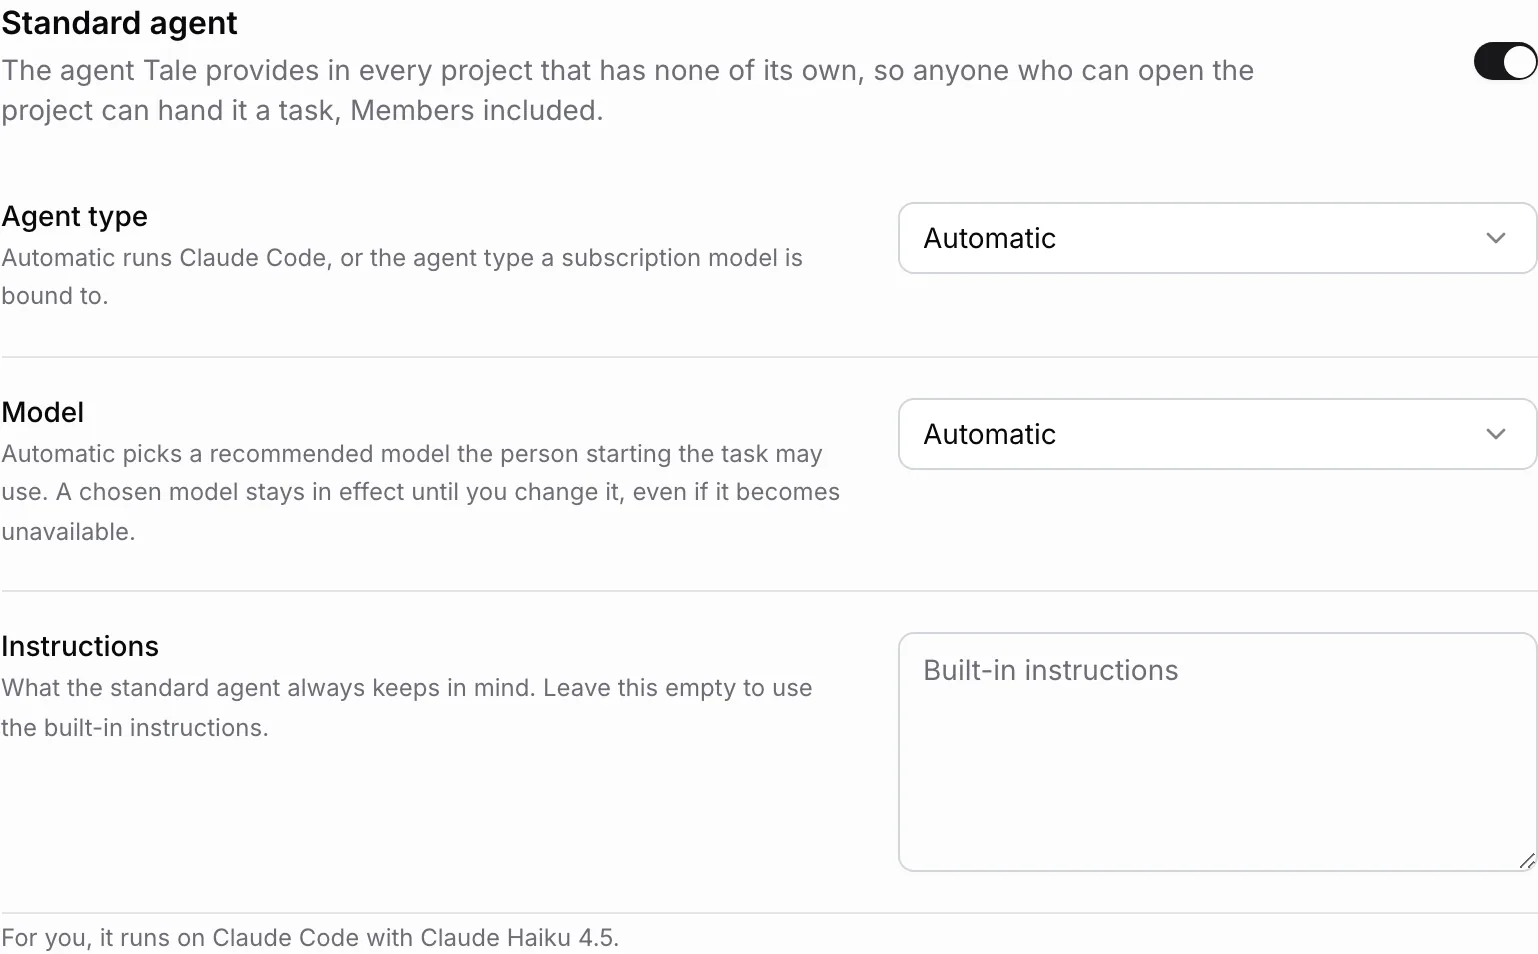
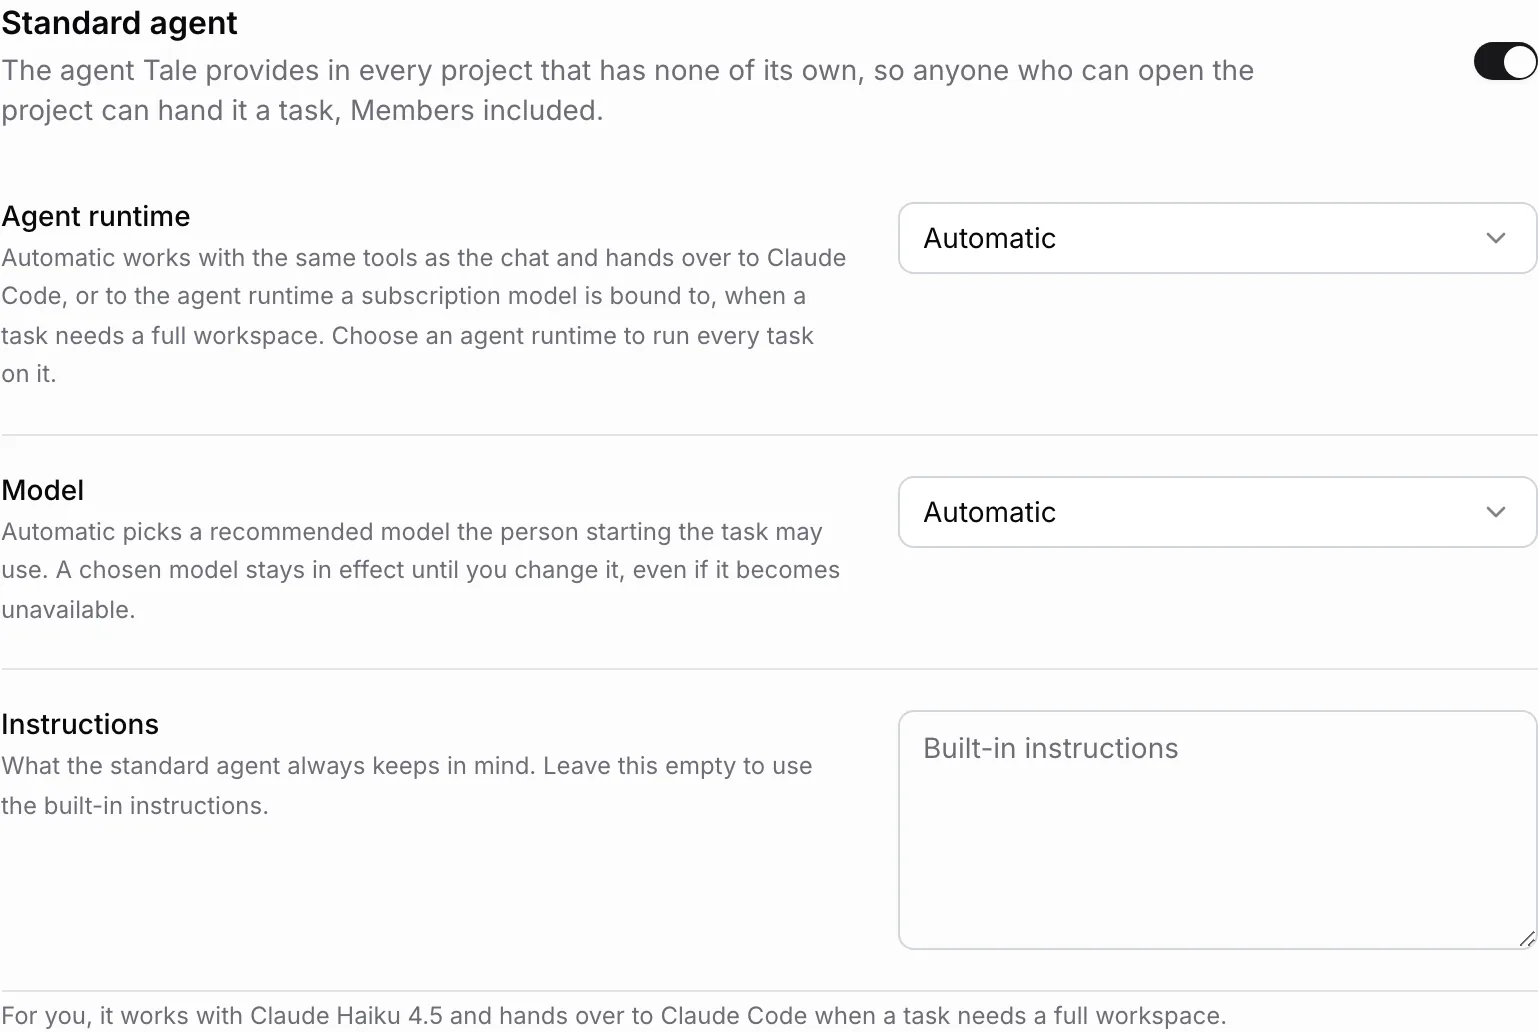
docs: recapture the standard agent settings screenshot
The line under the Standard agent section now says the agent works with the
chat's tools and hands over to a runtime when a task needs a full workspace,
so the shot shows it and the capture waits for either wording. Alt text in
English, German and French follows.

diff --git a/services/platform/tests/docs-screenshots/manifest.ts b/services/platform/tests/docs-screenshots/manifest.ts
@@ -3049,14 +3049,20 @@ export const SHOTS: readonly Shot[] = [
     // Governance > Models — the organization's standard agent as a new
     // organization has it: on, its agent type and model automatic. The line
     // naming what it runs on for the viewer lands last, once the policy and
-    // the viewer's model choice have both answered.
+    // the viewer's model choice have both answered. It reads one of two
+    // ways: the agent works with the chat's own tools and hands over to a
+    // runtime, or the runtime runs it throughout.
     name: 'governance-standard-agent',
     section: 'platform',
     route: '/dashboard/:orgId/settings/governance/content-models',
     readyWhen: (page) =>
-      standardAgentSection(page).getByText(
-        labelPrefix('governance.standardAgent.current'),
-      ),
+      standardAgentSection(page)
+        .getByText(labelPrefix('governance.standardAgent.currentNative'))
+        .or(
+          standardAgentSection(page).getByText(
+            labelPrefix('governance.standardAgent.current'),
+          ),
+        ),
     sanitize: replaceRigNames,
     capture: (page) => standardAgentSection(page),
   },

diff --git a/docs/fr/platform/admin/governance/content-models.md b/docs/fr/platform/admin/governance/content-models.md
@@ -84,7 +84,7 @@ Seuls les éditeurs et les rôles supérieurs peuvent ajouter des agents à un p
 
 <Frame caption="Gouvernance > Modèles — l’agent standard, activé, avec son environnement d’agent et son modèle choisis automatiquement.">
 
-![La section de l’agent standard : l’interrupteur est activé, l’environnement d’agent et le modèle sont réglés sur automatique, et le champ des instructions est vide et renvoie aux instructions intégrées. La dernière ligne indique qu’il fonctionne pour toi avec Claude Code et Claude Haiku 4.5.](/images/platform/governance-standard-agent.webp)
+![La section de l’agent standard : l’interrupteur est activé, l’environnement d’agent et le modèle sont réglés sur automatique, et le champ des instructions est vide et renvoie aux instructions intégrées. La dernière ligne indique que, pour toi, il travaille avec Claude Haiku 4.5 et passe la main à Claude Code quand une tâche demande un espace de travail complet.](/images/platform/governance-standard-agent.webp)
 
 </Frame>
 

diff --git a/docs/de/platform/admin/governance/content-models.md b/docs/de/platform/admin/governance/content-models.md
@@ -84,7 +84,7 @@ Agenten zu einem Projekt hinzufügen können nur Redakteure und höhere Rollen. 
 
 <Frame caption="Richtlinien > Modelle — der Standard-Agent, eingeschaltet, mit automatisch gewählter Agent-Laufzeit und automatisch gewähltem Modell.">
 
-![Der Abschnitt zum Standard-Agenten: Der Schalter ist eingeschaltet, Agent-Laufzeit und Modell stehen auf automatisch, das Feld für Anweisungen ist leer und verweist auf die eingebauten Anweisungen. Die letzte Zeile sagt, dass er für dich mit Claude Code und Claude Haiku 4.5 läuft.](/images/platform/governance-standard-agent.webp)
+![Der Abschnitt zum Standard-Agenten: Der Schalter ist eingeschaltet, Agent-Laufzeit und Modell stehen auf automatisch, das Feld für Anweisungen ist leer und verweist auf die eingebauten Anweisungen. Die letzte Zeile sagt, dass er für dich mit Claude Haiku 4.5 arbeitet und an Claude Code übergibt, wenn eine Aufgabe einen vollständigen Arbeitsbereich braucht.](/images/platform/governance-standard-agent.webp)
 
 </Frame>
 

diff --git a/docs/en/platform/admin/governance/content-models.md b/docs/en/platform/admin/governance/content-models.md
@@ -84,7 +84,7 @@ Only Editors and higher roles can add agents to a project. So that a project wit
 
 <Frame caption="Governance > Models — the standard agent, on, with its agent runtime and model chosen automatically.">
 
-![The Standard agent section with its switch on, Agent runtime and Model both set to Automatic, an empty Instructions field showing Built-in instructions, and the line For you, it runs on Claude Code with Claude Haiku 4.5.](/images/platform/governance-standard-agent.webp)
+![The Standard agent section with its switch on, Agent runtime and Model both set to Automatic, an empty Instructions field showing Built-in instructions, and the line For you, it works with Claude Haiku 4.5 and hands over to Claude Code when a task needs a full workspace.](/images/platform/governance-standard-agent.webp)
 
 </Frame>
 
